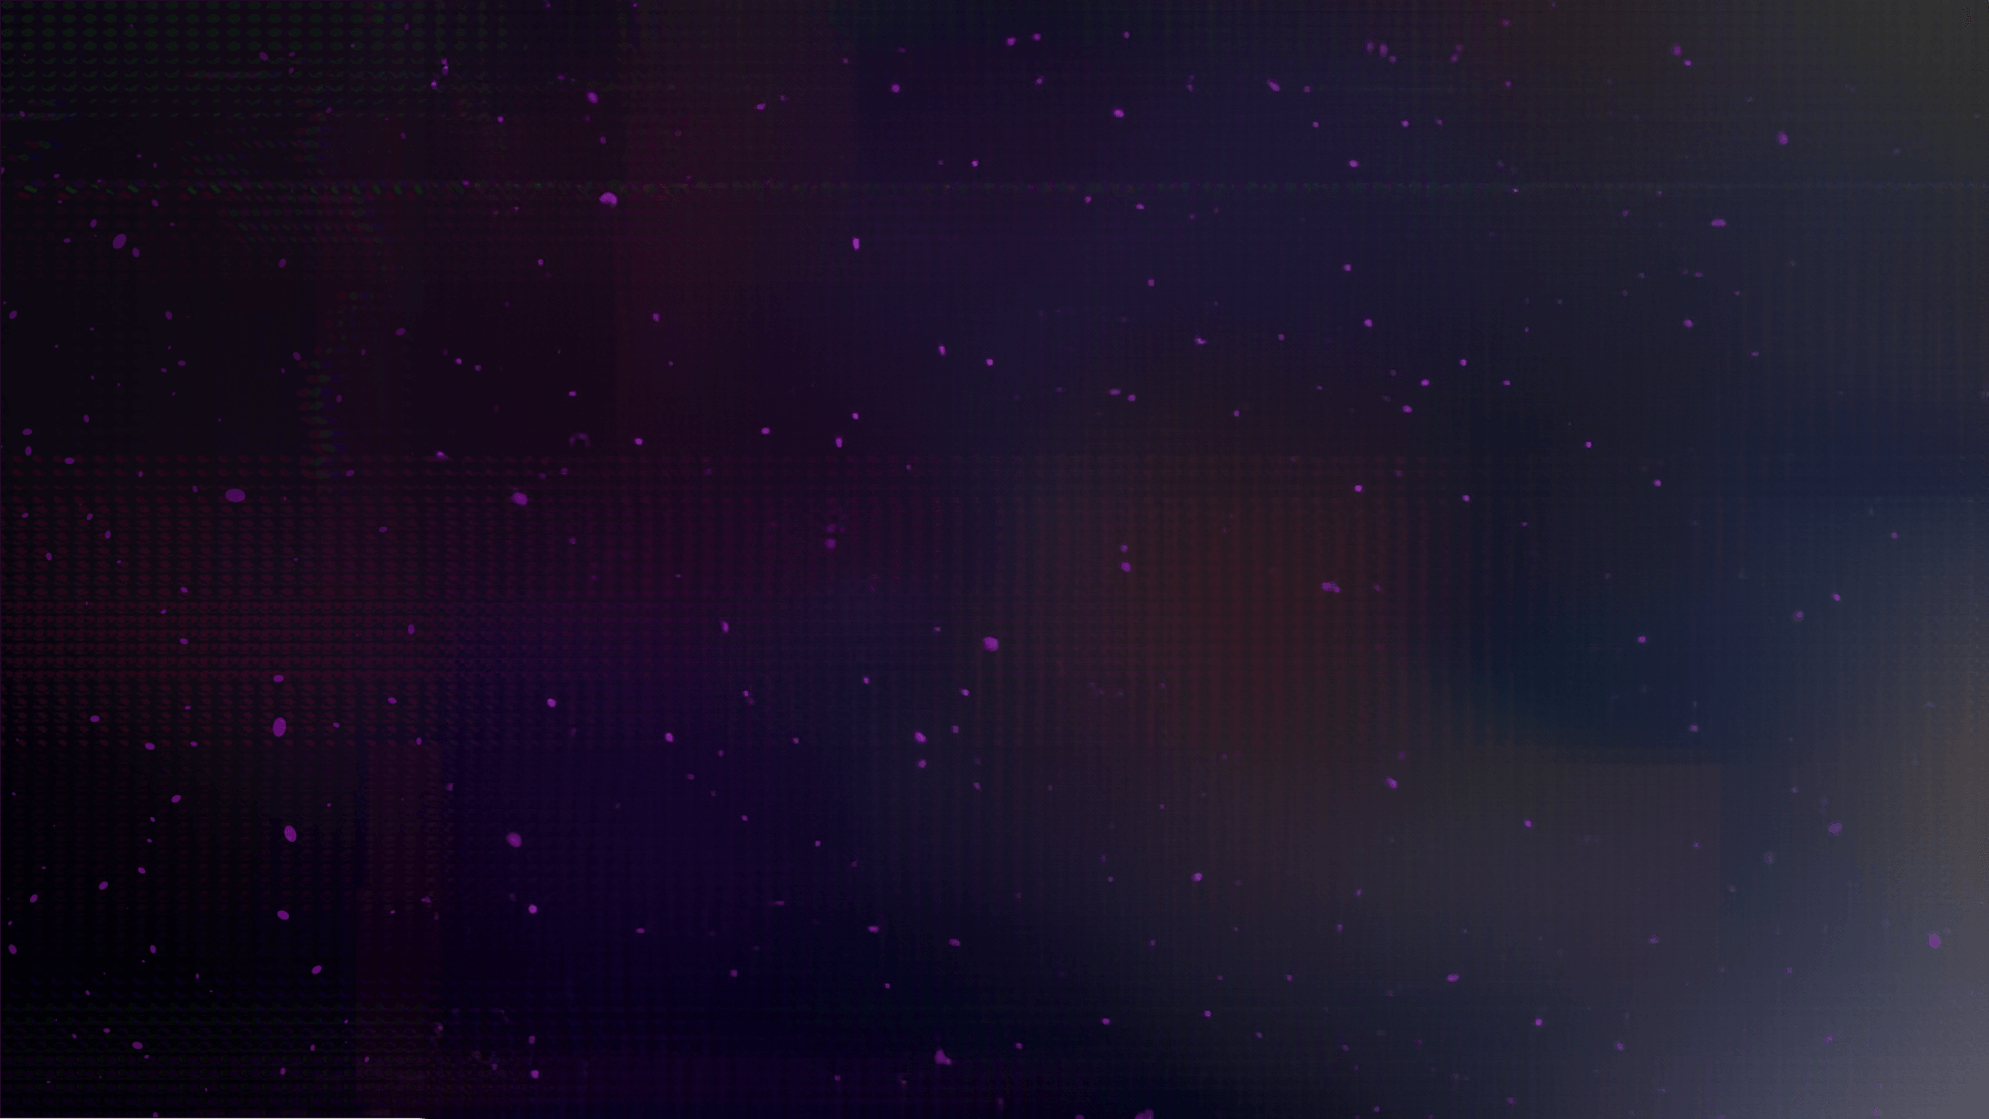
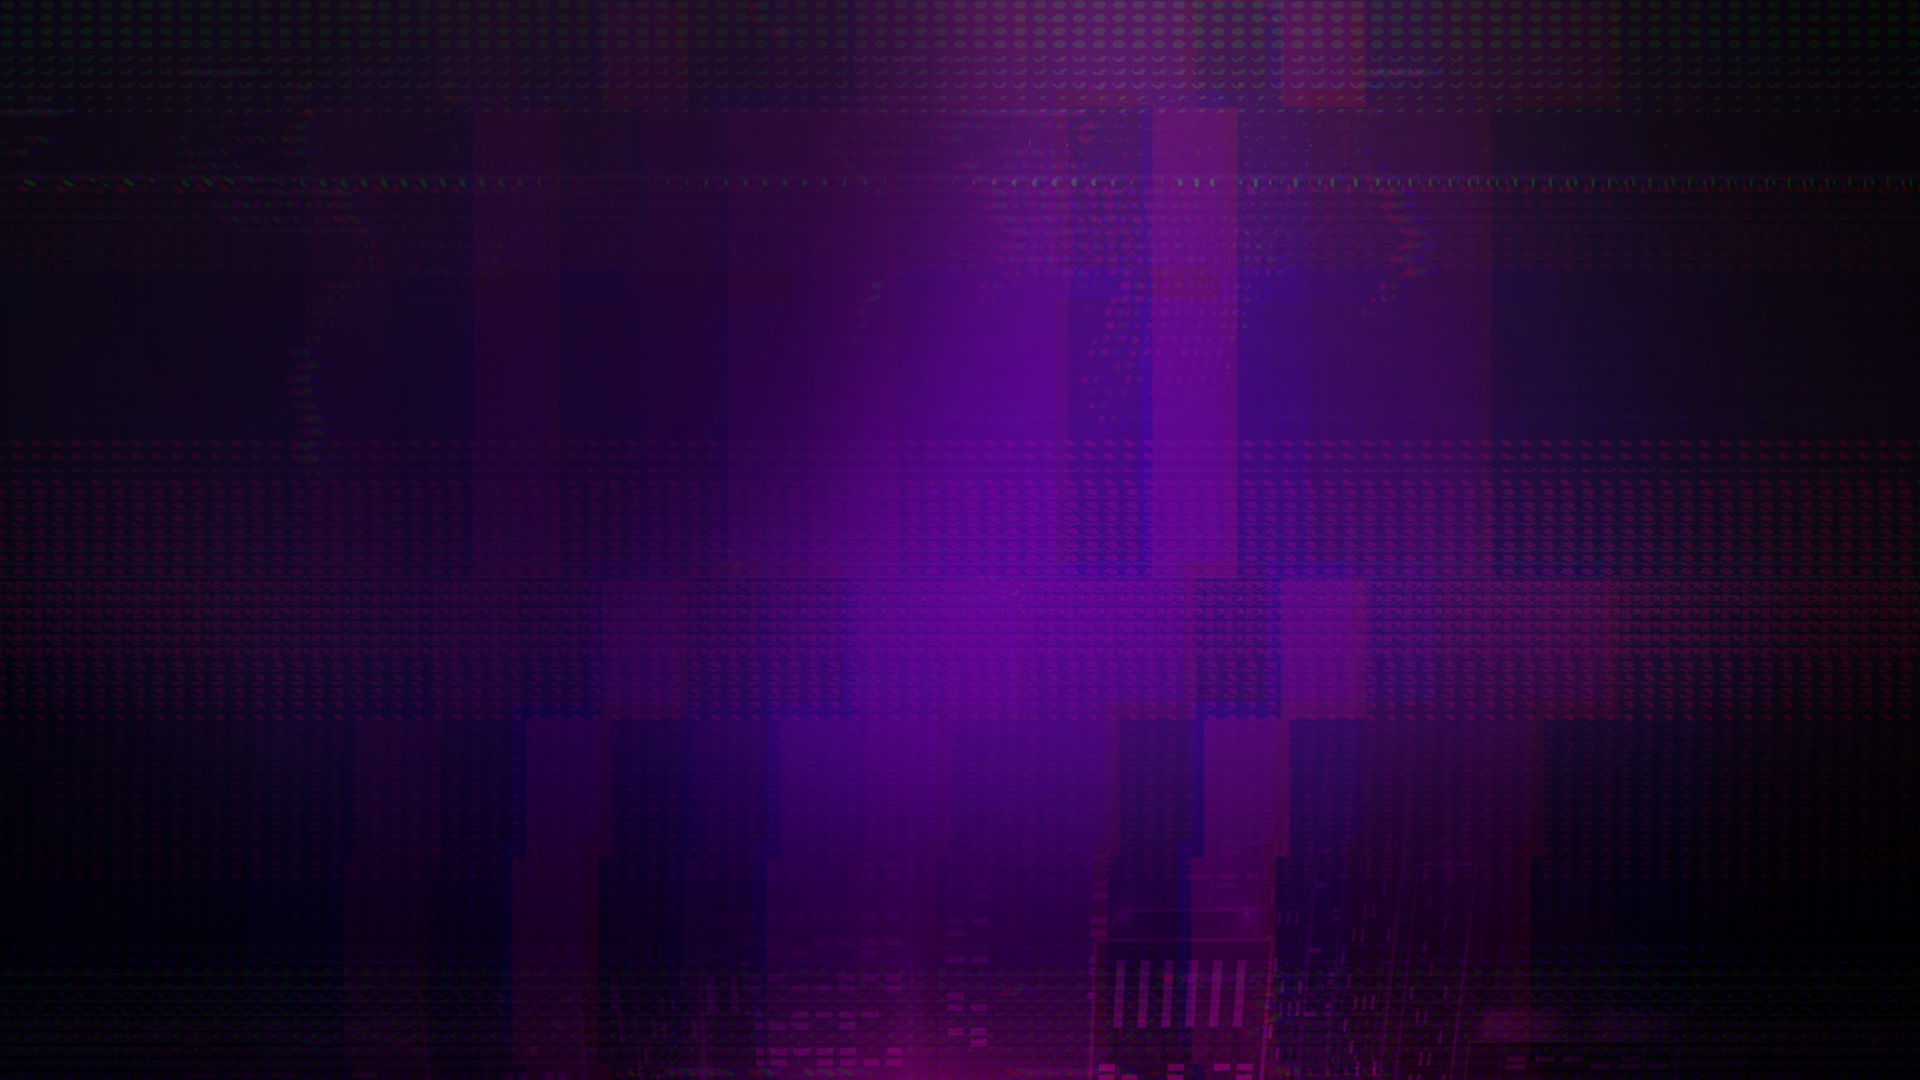
Se agrego el sistema

diff --git a/src/assets/scss/components/_swirl.scss b/src/assets/scss/components/_swirl.scss
@@ -5,26 +5,46 @@
     height: 100vh;
     top: 0px;
     left: 0px;
-    background-position: center;
-    background-size: cover;
     z-index: -1;
 
-    .swirl_relative {
+    .swirls {
+
         position: relative;
-        width: 100%; 
+        background-position: center;
+        background-size: cover;
+        width: 100%;
         height: 100%;
+        display: flex;
+        justify-content: center;
+        align-items: center;
 
-        .swirl {
+        img {
+             
+            width: 130dvw;
+            height: 130dvw;
+            position: absolute;
+            bottom: 40px;
+            mix-blend-mode: screen;  //color-dodge
+            object-fit: contain;
+            z-index: 0;
 
-            width: 100%;
-            height: 100%;
-            display: flex;
+            @include keyframes(remolino){
 
-            canvas {
-
-                transform: scale(1.7);
+                0%{
+                    transform: rotate(0deg);
+                    opacity: 0.4;
+                }
+                50%{
+                    opacity: 1;
+                }
+                100%{
+                    transform: rotate(-360deg);
+                    opacity: 0.4;
+                }
 
             }
+
+            @include animate(remolino, 2s, linear, infinite)
 
         }
 

diff --git a/src/page/App.tsx b/src/page/App.tsx
@@ -1,16 +1,13 @@
-import background from '../assets/img/choys_background.png';
 import Header from '../components/header/header';
+import Swirl from '../components/swirl/swirl';
 
 function App() {
-
-  console.log(background);
 
   return (
     <>
 
-      <section className="swirl_component" style={{
-        backgroundImage: `url(${background})`
-      }}>
+      <section className="swirl_component">
+        <Swirl/>
       </section>
 
       <Header/>

diff --git a/src/helper/swirl/remolino.ts b/src/helper/swirl/remolino.ts
@@ -1,0 +1,26 @@
+let ejecutado = false;
+
+const Remolino = (tag : HTMLElement) => {
+
+    /*tag.innerHTML = '';
+
+    if(ejecutado){
+
+        tag.insertAdjacentElement('beforeend', newElement('big'));
+
+    }
+
+    ejecutado = true;*/
+
+}
+
+const newElement =  (classList: string) => {
+
+    const element = document.createElement('div');
+    element.classList.add(classList);
+
+    return element;
+
+}
+
+export default Remolino;

diff --git a/src/components/swirl/swirl.tsx b/src/components/swirl/swirl.tsx
@@ -1,0 +1,18 @@
+import RemilinoImg from '../../assets/img/remolino.png';
+import background from '../../assets/img/choys_background.png';
+
+function Swirl() {
+
+    return (
+      <>
+       <section className='swirls' style={{
+        backgroundImage: `url(${background})`
+      }}>
+            <img src={RemilinoImg} alt="remolino_img" />
+       </section>
+      </>
+    )
+
+}
+  
+  export default Swirl;
